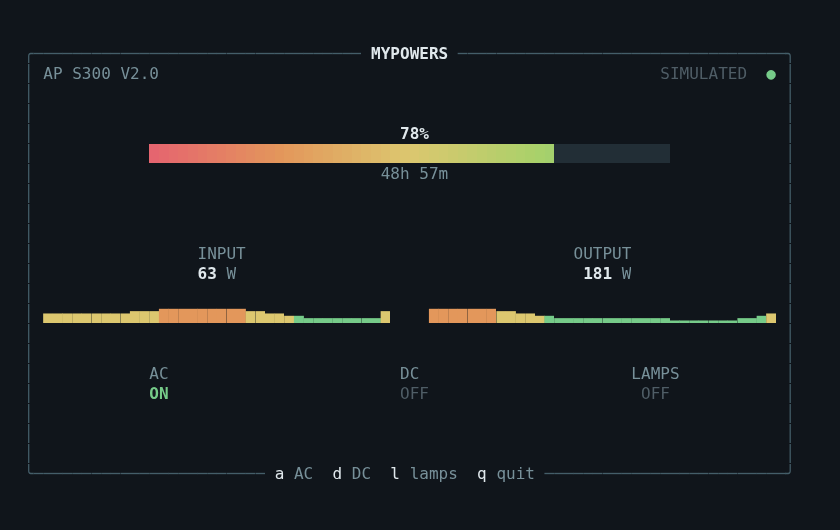
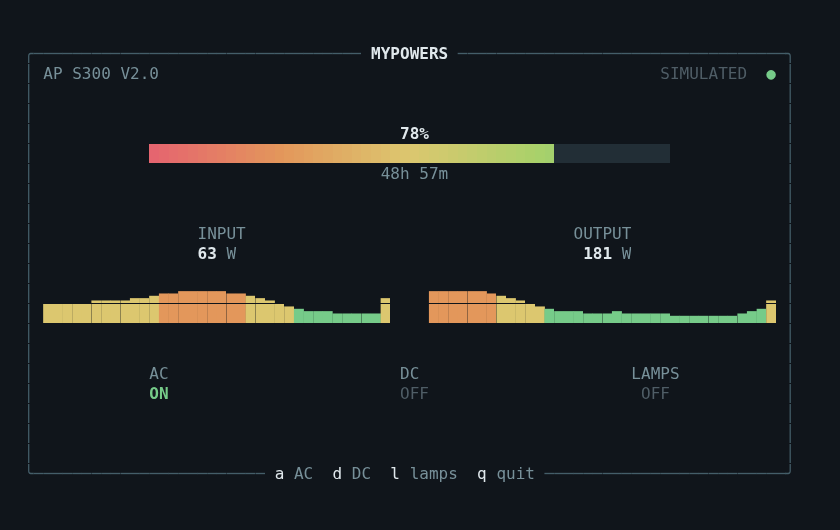
Render power sparklines across two rows

Changed region(s): [[0.031, 0.4226, 0.4643, 0.6038], [0.4952, 0.5434, 0.9286, 0.6038], [0.681, 0.4226, 0.7738, 0.5434]]

diff --git a/prototypes/ratatui-ui/src/ui.rs b/prototypes/ratatui-ui/src/ui.rs
@@ -96,7 +96,7 @@ pub fn draw(frame: &mut Frame, app: &mut App) {
         Constraint::Length(1),
         Constraint::Length(1),
         Constraint::Fill(1),
-        Constraint::Length(4),
+        Constraint::Length(5),
         Constraint::Fill(1),
         Constraint::Length(2),
         Constraint::Fill(1),
@@ -153,7 +153,7 @@ pub fn draw(frame: &mut Frame, app: &mut App) {
         let parts = Layout::vertical([
             Constraint::Length(2),
             Constraint::Length(1),
-            Constraint::Length(1),
+            Constraint::Length(2),
         ])
         .split(rect);
         frame.render_widget(
@@ -403,12 +403,27 @@ mod tests {
                 .clone()
                 .map(|x| buffer[(x, row as u16)].symbol())
                 .collect();
-            assert!(symbols.contains("▄▄▄▄"));
             assert!(
                 !symbols.contains('█'),
-                "Half scale must not autoscale to full height"
+                "Half scale must leave the upper graph row empty"
+            );
+            let lower: String = half.map(|x| buffer[(x, row as u16 + 1)].symbol()).collect();
+            assert!(
+                lower.contains("████"),
+                "Half scale should fill exactly one of the two rows"
             );
         }
+        for (i, value) in app.input_history.iter_mut().enumerate() {
+            *value = [31, 37][i % 2];
+        }
+        let finer = render(80, 24, &mut app);
+        let lower: String = (0..40)
+            .map(|x| finer[(x, row as u16 + 1)].symbol())
+            .collect();
+        assert!(
+            lower.contains('▄') && lower.contains('▅'),
+            "31% and 37% should occupy different two-row height levels"
+        );
         for (i, value) in app.input_history.iter_mut().enumerate() {
             *value = [10, 50, 90][i % 3];
         }

diff --git a/prototypes/ratatui-ui/README.md b/prototypes/ratatui-ui/README.md
@@ -64,7 +64,8 @@ screen or raw ANSI rendering:
 - `Paragraph`, `Line`, and `Span` render the station name, live circle, percentage,
   time, independent power readings, states, and key hints.
 - Two built-in `Sparkline` widgets use explicit `.max(100)` and `.max(300)`.
-  Each sits directly below its power reading in its own half of the screen.
+  Each is two rows tall and sits directly below its power reading in its own
+  half of the screen, providing sixteen eighth-cell height increments.
   Graphs have no repeated labels, values, or scale captions.
   The newest sample stays at the right edge. `SparklineBar::style` colors each
   sample green, yellow, or orange using its fraction of that fixed range. Red is
@@ -140,7 +141,7 @@ MYPOWERS_PREVIEW_DIR=target/preview cargo test layouts_keep_controls
 
 - Terminal cells fix text size. Percentage prominence comes from placement and
   bold weight; this prototype does not emulate a scalable display font.
-- A one-row Sparkline has nine discrete height levels, including zero. Tiny
+- A two-row Sparkline has seventeen discrete height levels, including zero. Tiny
   samples can therefore disappear even though the fixed scale is correct.
 - The battery gradient is continuous in RGB interpolation but still quantized
   to cells; fill precision is half a cell. Terminals without true color reduce
